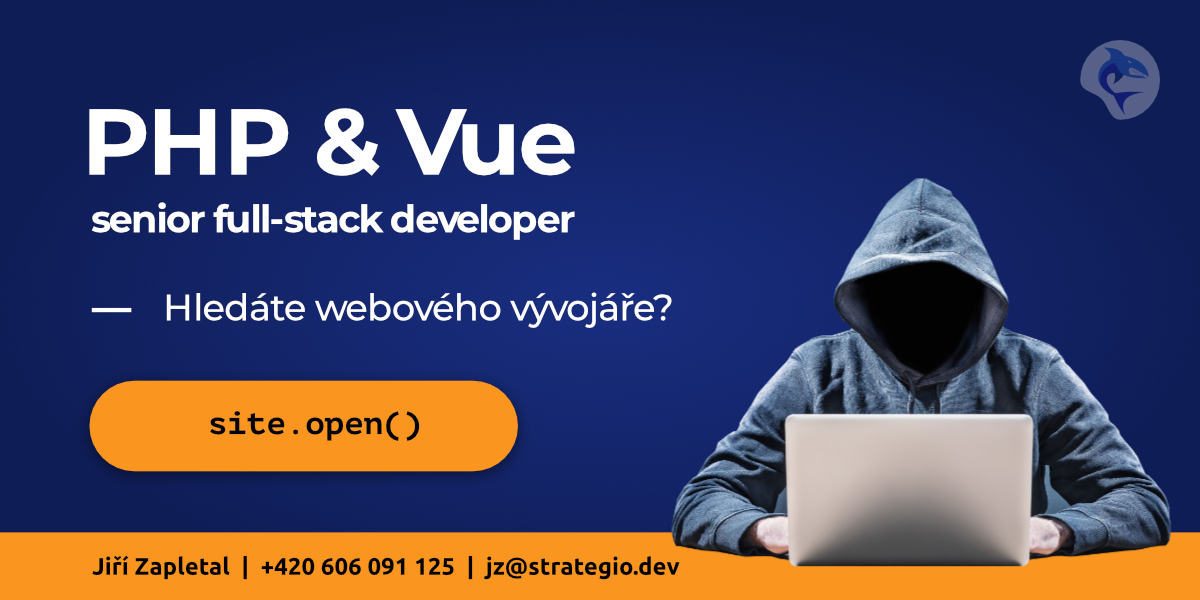
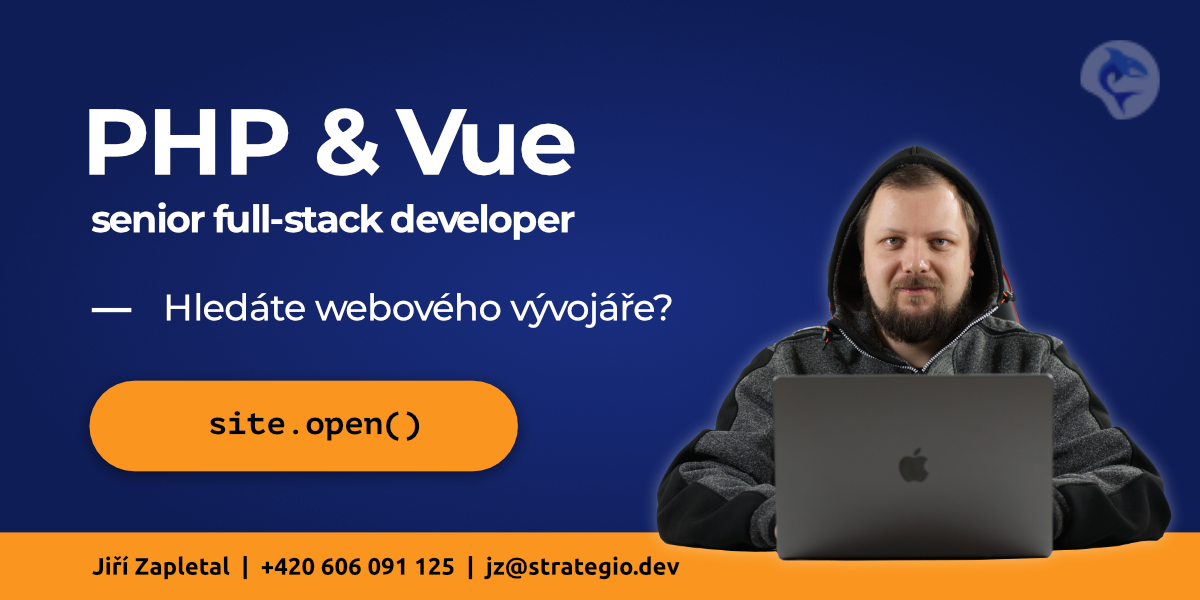
Added own photos

Changed region(s): [[0.5242, 0.24, 0.9867, 0.96]]

diff --git a/assets/scss/components/hero-image.scss b/assets/scss/components/hero-image.scss
@@ -11,17 +11,28 @@
 
     img {
         max-width: 90%;
-        margin-bottom: -1.5rem;
+        margin-bottom: -2.6rem;
+
+        @include media-breakpoint-up(sm) {
+            margin-bottom: -2.5rem;
+        }
+
+        @include media-breakpoint-up(md) {
+            margin-bottom: -2rem;
+        }
+
+        @include media-breakpoint-up(lg) {
+            margin-bottom: -3rem;
+        }
+
+        @include media-breakpoint-up(xxl) {
+            margin-bottom: -3.6rem;
+        }
     }
 
     @include media-breakpoint-up(md) {
         position: absolute;
         bottom: 0;
         left: 45%;
-
-        img {
-            margin-bottom: -2rem;
-            width: 1000px
-        }
     }
 }

diff --git a/assets/scss/components/footer-photo.scss b/assets/scss/components/footer-photo.scss
@@ -1,0 +1,28 @@
+/**
+ * Copyright (c) 2023 Strategio Digital s.r.o.
+ * @author Jiří Zapletal (https://strategio.dev, jz@strategio.dev)
+ */
+
+.footer-photo {
+    position: absolute;
+    right: -19%;
+    bottom: 0;
+
+    @include media-breakpoint-between(lg ,xxl) {
+        right: 0;
+    }
+
+    @include media-breakpoint-only(sm) {
+        right: -45%;
+    }
+
+    @include media-breakpoint-down(sm) {
+        position: relative;
+        right: 0;
+        left: 0;
+
+        img {
+            width: 100%;
+        }
+    }
+}

diff --git a/assets/images.ts b/assets/images.ts
@@ -9,6 +9,7 @@ import '@/assets/img/favicon.png'
 import '@/assets/img/social.png'
 
 import '@/assets/img/about/jiri-zapletal-web-developer.png'
+import '@/assets/img/about/jiri-zapletal-web-developer-footer-big.png'
 import '@/assets/img/about/jiri-zapletal-bg.jpg'
 import '@/assets/img/about/jiri-zapletal-slide-1.jpg'
 import '@/assets/img/about/jiri-zapletal-slide-2.jpg'

diff --git a/assets/scss/layout.scss b/assets/scss/layout.scss
@@ -90,4 +90,5 @@
 @import "components/navbar-logo";
 @import "components/blog-header";
 @import "components/blog-timeline";
+@import "components/footer-photo";
 
